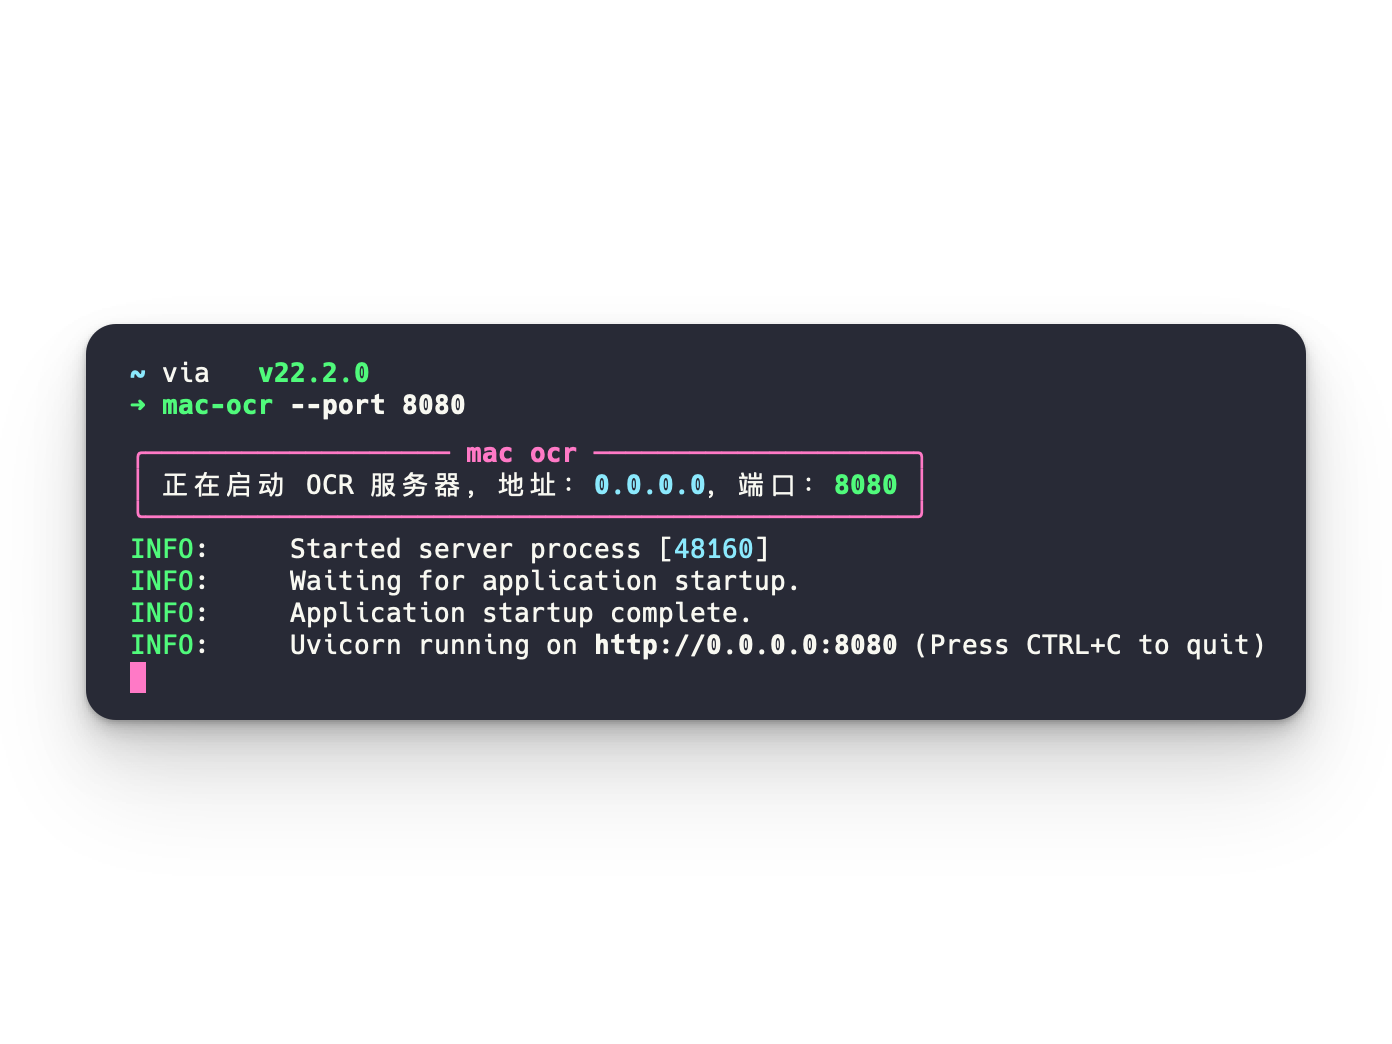
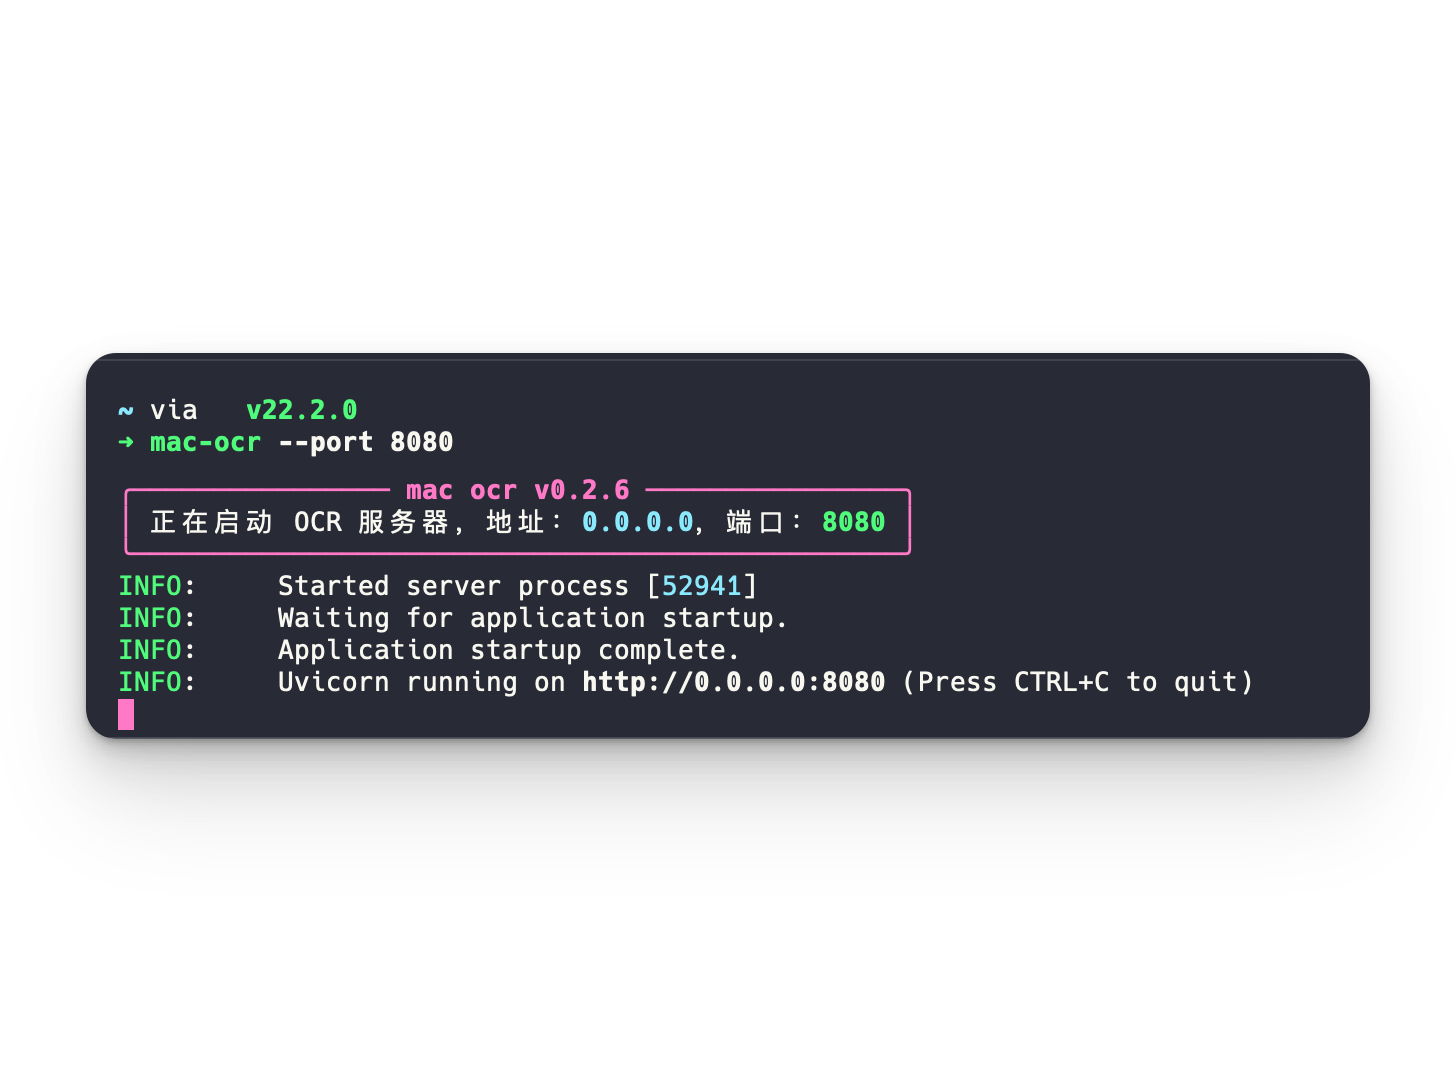
init

Changed region(s): [[0.0618, 0.3065, 0.9576, 0.705]]

diff --git a/macocr_cli/__main__.py b/macocr_cli/__main__.py
@@ -1,119 +1,120 @@
 import base64
 import io
-from datetime import datetime
+import os
 
 import typer
 import uvicorn
 from PIL import Image
-from fastapi import FastAPI, HTTPException
+from fastapi import FastAPI, HTTPException, Depends, Request
+from fastapi.responses import JSONResponse
 from ocrmac import ocrmac
 from pydantic import BaseModel
-from rich.console import Console
 from rich.panel import Panel
-from rich.text import Text
+
+from macocr_cli.utils import merge_text_by_line, beautify_ocr_result, console
 
 app = FastAPI()
 cli = typer.Typer()
-console = Console()
+
+VERSION = "0.2.6"
+# 全局变量用于存储 token
+AUTH_TOKEN = None
 
 
-class ImageBase64(BaseModel):
-    image: str
+# 修改验证函数以使用全局 token
+def verify_token(request: Request):
+    if AUTH_TOKEN is None:
+        # 如果没有设置 token，则跳过验证
+        return None
+    auth_header = request.headers.get("Authorization")
+    if not auth_header:
+        raise HTTPException(
+            status_code=401,
+            detail="Authorization header missing",
+            headers={"WWW-Authenticate": "Bearer"},
+        )
+    token = auth_header
+    if token != AUTH_TOKEN:
+        raise HTTPException(
+            status_code=401,
+            detail="Invalid or expired token",
+            headers={"WWW-Authenticate": "Bearer"},
+        )
+    return token
 
 
-def get_line_number(bbox, threshold=0.05):
-    """
-    Calculate the line number based on the bounding box.
-
-    Parameters:
-    bbox (list): Bounding box coordinates.
-    threshold (float): Threshold to determine the line number.
-
-    Returns:
-    int: The calculated line number.
-    """
-    return int(bbox[1] // threshold)
+@app.exception_handler(Exception)
+async def global_exception_handler(request: Request, exc: Exception):
+    return JSONResponse(
+        status_code=500,
+        content={"code": 500, "message": str(exc), "data": None},
+    )
 
 
-def merge_text_by_line(ocr_results):
-    """
-    Merge OCR results by line number.
-
-    Parameters:
-    ocr_results (list): OCR results containing text, confidence, and bounding box.
-
-    Returns:
-    list: Merged text lines in reverse order.
-    """
-    lines = {}
-    for result in ocr_results:
-        text, confidence, bbox = result
-        line_number = get_line_number(bbox)
-        if line_number not in lines:
-            lines[line_number] = []
-        lines[line_number].append(text)
-
-    merged_text = ["".join(lines[line_number]) for line_number in sorted(lines.keys())]
-    return merged_text[::-1]
+# 定义HTTPException处理器
+@app.exception_handler(HTTPException)
+async def http_exception_handler(request: Request, exc: HTTPException):
+    return JSONResponse(
+        status_code=exc.status_code,
+        content={"code": exc.status_code, "message": exc.detail, "data": None},
+    )
 
 
-def beautify_ocr_result(result):
-    """
-    使用 Rich 美化 OCR 结果输出，包含当前时间和文本颜色。
-
-    Parameters:
-    result (list): OCR 识别结果列表。
-
-    Returns:
-    None: 直接打印美化后的结果。
-    """
-    current_time = datetime.now().strftime("%Y-%m-%d %H:%M:%S")
-    console.print(f"\n[bold magenta]OCR 识别结果 ([cyan]{current_time}[/cyan]):[/bold magenta]")
-    for line in result:
-        text = Text(line, style="cyan")
-        console.print(text)
-    console.print()  # 添加一个空行
+class ImageInput(BaseModel):
+    image_path: str = None
+    image_base64: str = None
 
 
 @app.post("/ocr")
-async def perform_ocr(image_data: ImageBase64):
-    """
-    Perform OCR on the provided base64 encoded image.
+async def perform_ocr(image_input: ImageInput, token: str = Depends(verify_token)):
+    if image_input.image_path is None and image_input.image_base64 is None:
+        raise HTTPException(status_code=400, detail="必须提供image_path或image_base64中的一个")
 
-    Parameters:
-    image_data (ImageBase64): Base64 encoded image data.
-
-    Returns:
-    dict: OCR recognition results.
-
-    Raises:
-    HTTPException: If there is an error during the OCR process.
-    """
     try:
-        # Decode base64 image
-        image_bytes = base64.b64decode(image_data.image)
-        image = Image.open(io.BytesIO(image_bytes))
+        if image_input.image_path:
+            if os.path.isfile(image_input.image_path):
+                image = Image.open(image_input.image_path)
+            else:
+                return {
+                    "code": 400,
+                    "message": "File not found",
+                    "data": None
+                }
+        else:
+            image_bytes = base64.b64decode(image_input.image_base64)
+            image = Image.open(io.BytesIO(image_bytes))
 
-        # Perform OCR using ocrmac
         annotations = ocrmac.OCR(image, language_preference=["zh-Hans"]).recognize()
         result = merge_text_by_line(annotations)
         beautify_ocr_result(result)
-        return {"result": result}
+
+        return {
+            "code": 200,
+            "message": "success",
+            "data": {
+                "annotations": annotations,
+                "fullText": result
+            }
+        }
     except Exception as e:
-        raise HTTPException(status_code=500, detail=str(e))
+        raise HTTPException(status_code=400, detail=f"处理图片时出错: {str(e)}")
 
 
 @cli.command()
 def start_server(
         port: int = typer.Option(8000, "--port", "-p", help="服务器运行的端口"),
         host: str = typer.Option("0.0.0.0", "--host", "-h", help="服务器运行的主机地址"),
-        log_level: str = typer.Option("info", "--log-level", "-l", help="日志级别")
+        log_level: str = typer.Option("info", "--log-level", "-l", help="日志级别"),
+        token: str = typer.Option(None, "--token", "-t", help="用于认证的 token")
 ):
     """
     启动具有指定配置的 OCR 服务器。
     """
+    global AUTH_TOKEN
+    AUTH_TOKEN = token
+
     start_message = f"正在启动 OCR 服务器，地址：[bold cyan]{host}[/bold cyan]，端口：[bold green]{port}[/bold green]"
-    console.print(Panel(start_message, title="mac ocr", expand=False, border_style="bold magenta"))
+    console.print(Panel(start_message, title=f"mac ocr v{VERSION}", expand=False, border_style="bold magenta"))
 
     uvicorn.run(app, host=host, port=port, log_level=log_level)
 

diff --git a/macocr_cli/utils.py b/macocr_cli/utils.py
@@ -1,0 +1,58 @@
+from rich.text import Text
+from datetime import datetime
+from rich.console import Console
+
+console = Console()
+
+def get_line_number(bbox, threshold=0.05):
+    """
+    Calculate the line number based on the bounding box.
+
+    Parameters:
+    bbox (list): Bounding box coordinates.
+    threshold (float): Threshold to determine the line number.
+
+    Returns:
+    int: The calculated line number.
+    """
+    return int(bbox[1] // threshold)
+
+
+def merge_text_by_line(ocr_results):
+    """
+    Merge OCR results by line number.
+
+    Parameters:
+    ocr_results (list): OCR results containing text, confidence, and bounding box.
+
+    Returns:
+    list: Merged text lines in reverse order.
+    """
+    lines = {}
+    for result in ocr_results:
+        text, confidence, bbox = result
+        line_number = get_line_number(bbox)
+        if line_number not in lines:
+            lines[line_number] = []
+        lines[line_number].append(text)
+
+    merged_text = ["".join(lines[line_number]) for line_number in sorted(lines.keys())]
+    return merged_text[::-1]
+
+
+def beautify_ocr_result(result):
+    """
+    使用 Rich 美化 OCR 结果输出，包含当前时间和文本颜色。
+
+    Parameters:
+    result (list): OCR 识别结果列表。
+
+    Returns:
+    None: 直接打印美化后的结果。
+    """
+    current_time = datetime.now().strftime("%Y-%m-%d %H:%M:%S")
+    console.print(f"\n[bold magenta]OCR 识别结果 ([cyan]{current_time}[/cyan]):[/bold magenta]")
+    for line in result:
+        text = Text(line, style="cyan")
+        console.print(text)
+    console.print()  # 添加一个空行

diff --git a/README.md b/README.md
@@ -1,7 +1,7 @@
 # MAC-OCR-CLI
 <p float="left">
-  <img src="images/ocr-start.png" alt="OCR START" width="400" style="vertical-align: middle;"/>
-  <img src="images/ocr-result.png" alt="OCR RESULT" width="400" style="vertical-align: middle;"/>
+  <img src="https://raw.githubusercontent.com/dielect/mac-ocr-cli/master/images/ocr-start.png" alt="OCR START" width="400" style="vertical-align: middle;"/>
+  <img src="https://raw.githubusercontent.com/dielect/mac-ocr-cli/master/images/ocr-result.png" alt="OCR RESULT" width="400" style="vertical-align: middle;"/>
 </p>
 MAC-OCR-CLI is a powerful command-line interface tool for Optical Character Recognition (OCR) on macOS. 
 
@@ -54,16 +54,27 @@ Available options:
 - `--port` or `-p`: Set the server port (default: 8000)
 - `--host` or `-h`: Set the server host (default: 0.0.0.0)
 - `--log-level` or `-l`: Set the log level (default: info)
+- `--token` or `-t`: Set the token (default: None)
 
 ### Performing OCR
 
 Once the server is running, you can perform OCR on an image using a POST request to the `/ocr` endpoint:
 
 ```sh
-curl --location 'http://127.0.0.1:8000/ocr' \
+curl --location 'http://127.0.0.1:8080/ocr' \
+--header 'Authorization: 123456' \
 --header 'Content-Type: application/json' \
 --data '{
-    "image":"<base64_encoded_image_data>"
+    "image_path":"your_image_path"
+}'
+```
+Replace `your_image_path` with your actual image path.
+```shell
+curl --location 'http://127.0.0.1:8080/ocr' \
+--header 'Authorization: 123456' \
+--header 'Content-Type: application/json' \
+--data '{
+    "image_base64":"base64_encoded_image_data"
 }'
 ```
 
@@ -73,7 +84,36 @@ The server will respond with the OCR results in JSON format:
 
 ```json
 {
-    "result": ["Line 3 text", "Line 2 text", "Line 1 text"]
+    "code": 200,
+    "message": "success",
+    "data": {
+        "annotations": [
+            [
+                "INTP女",
+                1.0,
+                [
+                    0.15561960485546392,
+                    0.8036144575052732,
+                    0.6772334149494265,
+                    0.1295751962317041
+                ]
+            ],
+            [
+                "为什么罕见",
+                1.0,
+                [
+                    0.08933718939980283,
+                    0.6463855410040755,
+                    0.8213256246225845,
+                    0.11870066631271181
+                ]
+            ]
+        ],
+        "fullText": [
+            "INTP女",
+            "为什么罕见"
+        ]
+    }
 }
 ```
 
